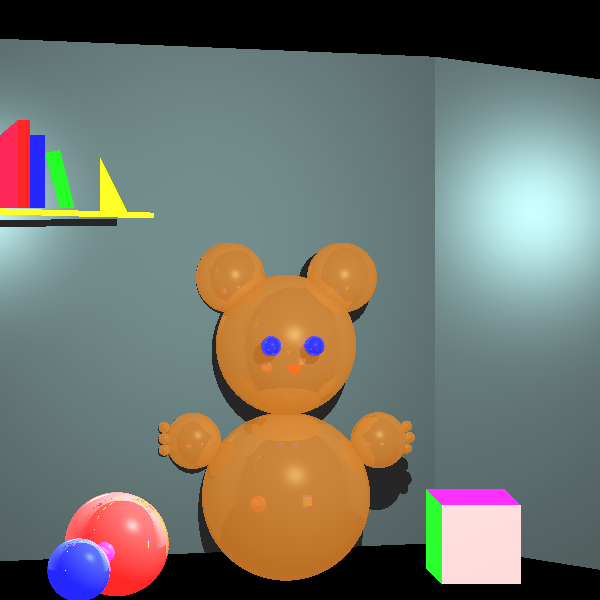
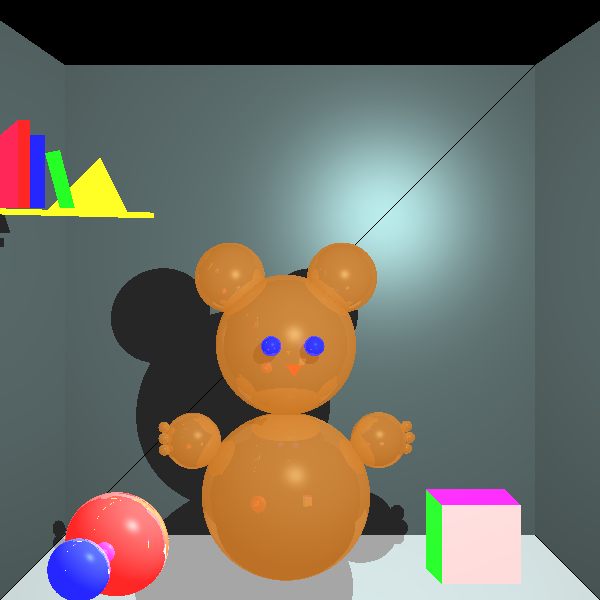
debut_8

diff --git a/unitTest/images/ourImages.java b/unitTest/images/ourImages.java
@@ -26,29 +26,65 @@ public class ourImages {
                 .build();
 
         scene.getGeometries().add(
-                //Sa tete
-                new Sphere(new Point(0, 0, -100), 50d).setEmission(new Color(150, 75, 0)),
-
-                //ses oreilles
-                new Sphere(new Point(40, 60, -100), 25d).setEmission(new Color(150, 75, 0)),
-                new Sphere(new Point(-40, 60, -100), 25d).setEmission(new Color(150, 75, 0)),
-
-                //son ventre
-                new Sphere(new Point(0, -110, -100), 60d).setEmission(new Color(150, 75, 0)),
-
-                //ses yeux
-                new Sphere(new Point(-5, 0, -19), 5d).setEmission(new Color(150, 75, 0)),
-                new Sphere(new Point(5, 0, -19), 5d).setEmission(new Color(150, 75, 0)),
-
-                //son nez
+                //le fond
                 new Triangle(
-                        new Point(-3, -3, -19d),
-                        new Point(3, -3, -19d),
-                        new Point(0, -6, -19d)).
-                        setEmission(new Color(250, 75, 0)),
-                new Sphere(new Point(-4, 0, -15d), 2d).setEmission(new Color(0, 0, 255)),
-                new Sphere(new Point(4, 0, -15d), 2d).setEmission(new Color(0, 0, 255)));
+                        new Point(-90, -90, -150),
+                        new Point(90, -90, -150),
+                        new Point(90, 90, -150)
+                ),
+                new Triangle(
+                        new Point(-90, -90, -150),
+                        new Point(-90, 90, -150),
+                        new Point(90, 90, -150)
+                ),
 
+                //the side- right
+                new Triangle(
+                        new Point(90, -90, -150),
+                        new Point(90, 90, -150),
+                        new Point(100, 110, -120)
+                ),
+                new Triangle(
+                        new Point(100, 110, -120),
+                        new Point(100, -120, -120),
+                        new Point(90, -90, -150)
+                ),
+                //the side- left
+                new Triangle(
+                        new Point(-90, -90, -150),
+                        new Point(-90, 90, -150),
+                        new Point(-100, 110, -120)
+                ),
+                new Triangle(
+                        new Point(-100, 110, -120),
+                        new Point(-100, -120, -120),
+                        new Point(-90, -90, -150))
+
+
+        );
+//                //Sa tete
+//                new Sphere(new Point(0, 0, -100), 50d).setEmission(new Color(150, 75, 0)),
+//
+//                //ses oreilles
+//                new Sphere(new Point(40, 60, -100), 25d).setEmission(new Color(150, 75, 0)),
+//                new Sphere(new Point(-40, 60, -100), 25d).setEmission(new Color(150, 75, 0)),
+//
+//                //son ventre
+//                new Sphere(new Point(0, -110, -100), 60d).setEmission(new Color(150, 75, 0)),
+//
+//                //ses yeux
+//                new Sphere(new Point(-5, 0, -19), 5d).setEmission(new Color(150, 75, 0)),
+//                new Sphere(new Point(5, 0, -19), 5d).setEmission(new Color(150, 75, 0)),
+//
+//                //son nez
+//                new Triangle(
+//                        new Point(-3, -3, -19d),
+//                        new Point(3, -3, -19d),
+//                        new Point(0, -6, -19d)).
+//                        setEmission(new Color(250, 75, 0)),
+//                new Sphere(new Point(-4, 0, -15d), 2d).setEmission(new Color(0, 0, 255)),
+//                new Sphere(new Point(4, 0, -15d), 2d).setEmission(new Color(0, 0, 255)));
+//
 
         Camera camera = new Camera.BuilderCamera(Point.ZERO, new Vector(0, 0, -1), new Vector(0, 1, 0)) //
                 .setVPDistance(100) //
@@ -122,22 +158,73 @@ public class ourImages {
                 .setVPSize(200, 200).setVPDistance(1000) //
                 .setRayTracer(new RayTracerBasic(scene)).build();
         scene.getGeometries().add( //
+//                //le fond
+//                new Polygon(
+//                        new Point(50, -90, -110),
+//                        new Point(90, -90, -130),
+//                        new Point(90, 90, -130),
+//                        new Point(50, 90, -110))
+//                        .setMaterial(new Material().setKd(0.5).setKs(0.8).setShininess(80)),
+//
+//
+//                //side
+//                new Polygon(
+//                        new Point(50, -90, -110),
+//                        new Point(-150, -60, -140),
+//                        new Point(-150, 120, -140),
+//                        new Point(50, 90, -110))
+//                        .setMaterial(new Material().setKd(0.5).setKs(0.8).setShininess(60)),
+//
+
                 //le fond
-                new Polygon(
-                        new Point(50, -90, -110),
-                        new Point(90, -90, -130),
-                        new Point(90, 90, -130),
-                        new Point(50, 90, -110))
-                        .setMaterial(new Material().setKd(0.5).setKs(0.8).setShininess(80)),
+                new Triangle(
+                        new Point(-90, -90, -150),
+                        new Point(90, -90, -150),
+                        new Point(90, 90, -150)
+                ).setMaterial(new Material().setKd(0.5).setKs(0.8).setShininess(80)),
+                new Triangle(
+                        new Point(-90, -90, -150),
+                        new Point(-90, 90, -150),
+                        new Point(90, 90, -150)
+                ).setMaterial(new Material().setKd(0.5).setKs(0.8).setShininess(80)),
 
+                // side- right
+                new Triangle(
+                        new Point(90, -90, -150),
+                        new Point(90, 90, -150),
+                        new Point(120, 110, -120)
+                ).setMaterial(new Material().setKd(0.5).setKs(0.8).setShininess(80)),
+                new Triangle(
+                        new Point(120, 110, -120),
+                        new Point(120, -120, -120),
+                        new Point(90, -90, -150)
+                ).setMaterial(new Material().setKd(0.5).setKs(0.8).setShininess(80)),
 
-                //side
-                new Polygon(
-                        new Point(50, -90, -110),
-                        new Point(-150, -60, -140),
-                        new Point(-150, 120, -140),
-                        new Point(50, 90, -110))
-                        .setMaterial(new Material().setKd(0.5).setKs(0.8).setShininess(60)),
+                // side- left
+                new Triangle(
+                        new Point(-90, -90, -150),
+                        new Point(-90, 90, -150),
+                        new Point(-120, 110, -120)
+                ).setMaterial(new Material().setKd(0.5).setKs(0.8).setShininess(80)),
+                new Triangle(
+                        new Point(-120, 110, -120),
+                        new Point(-120, -120, -120),
+                        new Point(-90, -90, -150)
+                ).setMaterial(new Material().setKd(0.5).setKs(0.8).setShininess(80)),
+
+                // the floor
+                new Triangle(
+                        new Point(90, -90, -150),
+                        new Point(120, -120, -120),
+                        new Point(-120, -120, -120)
+                ).setMaterial(new Material().setKd(0.5).setKs(0.8).setShininess(80))
+                        .setEmission(new Color(gray)),
+                new Triangle(
+                        new Point(-120, -120, -120),
+                        new Point(-90, -90, -150),
+                        new Point(90, -90, -150)
+                ).setMaterial(new Material().setKd(0.5).setKs(0.8).setShininess(80))
+                        .setEmission(new Color(gray)),
 
 
                 //books on the shelf
@@ -263,7 +350,6 @@ public class ourImages {
                         .setMaterial(new Material().setKd(0.1).setKs(0.2).setShininess(30).setKr(0.1)),
                 new Sphere(new Point(-48, -53, -60), 2).setEmission(new Color(150, 75, 0))
                         .setMaterial(new Material().setKd(0.1).setKs(0.2).setShininess(30).setKr(0.1)),
-
 
 
                 //eyes
